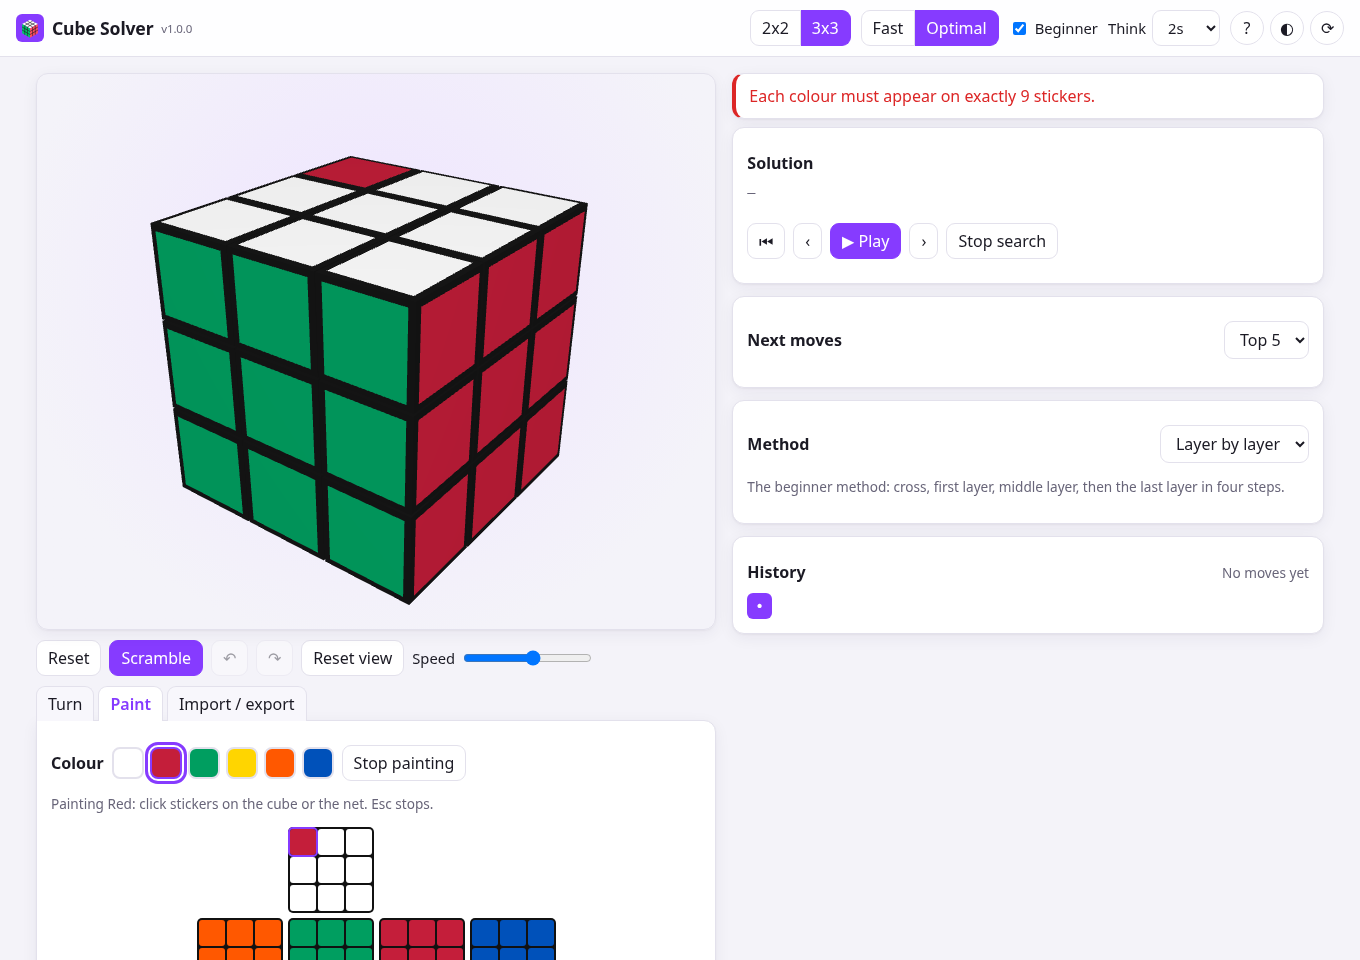
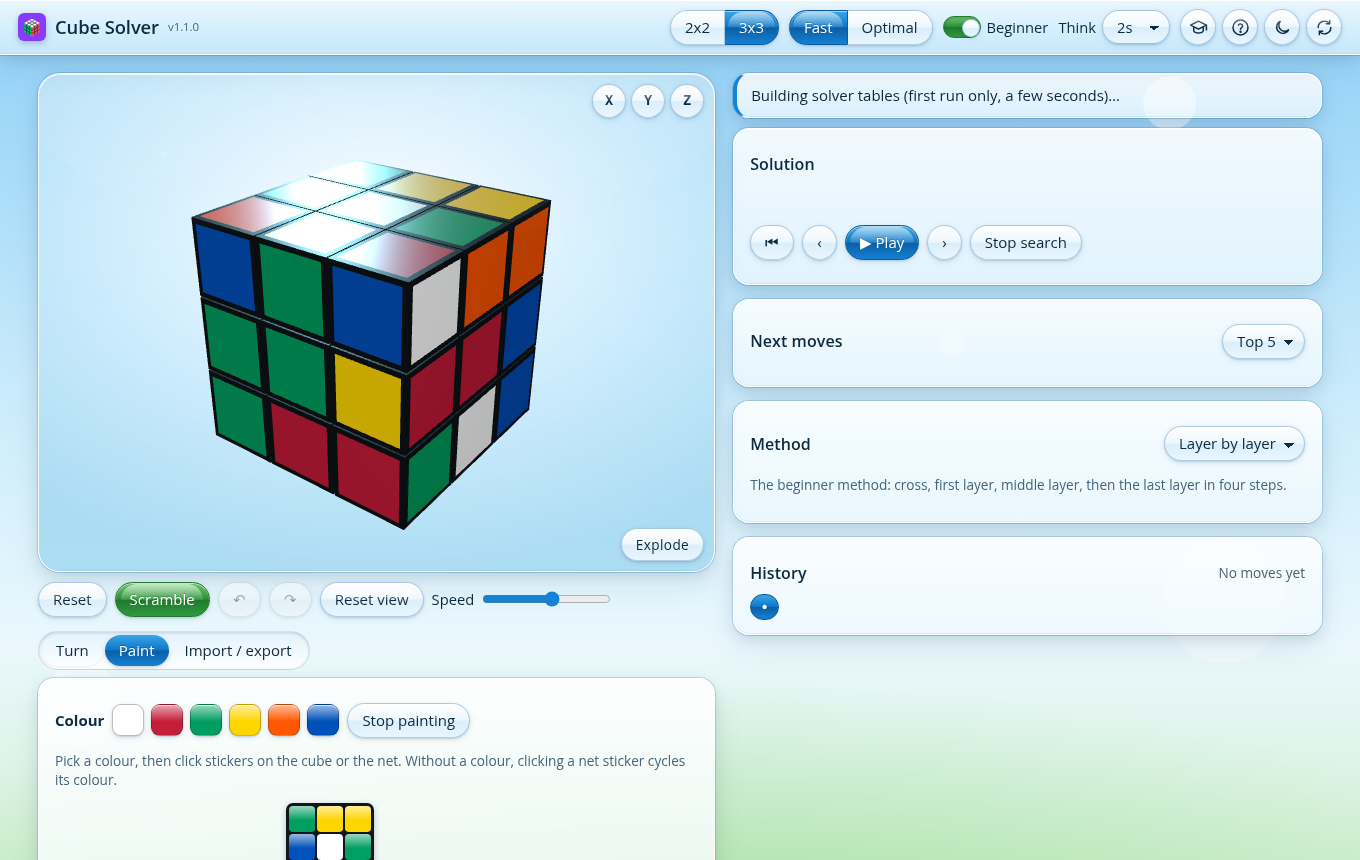
Document theming and refresh screenshots in the Aero look

diff --git a/README.md b/README.md
@@ -70,7 +70,8 @@
 **App**
 - Runs in the **browser**, installs as an offline **PWA**, and installs on **Windows** as a desktop app of about 2 MB (Tauri).
 - **Update check** against GitHub releases: automatic at startup in release builds, and on demand with ⟳.
-- Light/dark theme that follows the system until you choose. Settings are remembered.
+- **Frutiger Aero look:** glossy glass panels over a sky-and-bubbles backdrop, aqua pill buttons with a specular top half, a sky-blue and fresh-green palette, soft layered shadows, and lacquered stickers on the 3D cube. Light and dark (night-sky glass) variants follow the system until you pick one with the moon button.
+- Built on design tokens, so the planned neon and matte skins are just variable sets (preview with `?skin=neon` or `?skin=matte`). Respects reduced motion and reduced transparency (solid panels, no blur). Settings are remembered.
 - An interactive tutorial (below), a keyboard shortcut sheet, an error banner with Reload if anything goes wrong, and a solver that restarts itself if it crashes.
 - A responsive layout for phones and tablets. Every control has an accessible name, and keyboard focus is always visible.
 - The UI thread never runs solver work: everything heavy happens in a Web Worker, and solver tables are cached in IndexedDB.
@@ -196,6 +197,20 @@ The dots across the top jump to any lesson, and **Show again** repeats the demon
 
 The cube is modelled twice. The sticker model derives every move from 3D geometry, so it works for any size and the renderer uses the same coordinates. The cubie model uses Kociemba's conventions for the solvers. Tests apply every move in both models and check they agree.
 
+## Theming
+
+The look is built in two layers:
+
+| Layer | File | What it holds |
+|---|---|---|
+| Tokens | `src/theme/tokens.css` | Every surface, gradient, gloss, radius, shadow, blur, accent, text colour and texture, as CSS custom properties per skin (`:root[data-skin=…]`) with a dark variant |
+| Components | `src/style.css` | Panels, buttons, tabs, toggles, dialogs, tour and coach cards. These read tokens only (a test fails if they use an undeclared one) |
+| Scene | `src/theme/skins.ts` | The 3D side of each skin: plastic colour and roughness, sticker clear-coat gloss, and ambient, key, sky and rim lights for light and dark |
+
+The skins are **aero** (shipped and default), **neon** (futuristic dark) and **matte** (textured). The last two are complete variable sets that aren't offered in the UI yet. You can preview them with `?skin=neon` or `?skin=matte`, or by saving `cube-solver-skin` in `localStorage`. The dark variant is chosen through `data-theme`, which follows the OS until you pick one. Under reduced transparency, panels become solid and blur is turned off. Contrast is checked in tests to meet WCAG AA for body text, muted text and text on buttons.
+
+<p align="center"><img src="docs/screenshot-dark.png" width="700" alt="The Aero look in dark mode: night-sky glass panels" /></p>
+
 ## Building and packaging
 
 ### Web
@@ -271,6 +286,9 @@ src/
     explode.ts      exploded-view maths: easing, offsets, stagger, controller (pure, tested)
     framing.ts      camera distance that fits the cube for any FOV/aspect (pure, tested)
     net.ts          flat net editor
+  theme/
+    tokens.css      design tokens per skin (aero light/dark, neon, matte)
+    skins.ts        scene parameters per skin, skin and theme selection (tested with the tokens)
   tutorial/
     lessons.ts      lesson, quiz and tour content; attempt checking; saved progress (pure, tested)
     tutorial.ts     coach panel, demonstrations, quiz; starts the tour

diff --git a/lessons.md b/lessons.md
@@ -60,3 +60,11 @@ Rules learned building Cube Solver. Read them before changing the build, the sol
 - The turn animation re-parents meshes and snaps them back to their home matrix. Running it while pieces are exploded would fling them home mid-air. Gate turns at the entry points, and also make `animate()` just recolour when the cube is exploded, as a safety net.
 - Make the explode controller reversible: start the new animation from the current eased amount and scale its duration by the distance left. Rapid toggling then never jumps.
 - For a "glow" without a post-processing pass, use additive blending on thin lines and points, on a darkened viewport background. It's cheap and reads as sci-fi.
+
+## Visual design system
+
+- A list-valued `background-size` cycles across *every* layer. Putting a tiled texture first and a stack of radial "bubble" gradients after it tiled half the bubbles into a wallpaper. Give each tiled layer its own pseudo-element.
+- Glossy aqua buttons need darker gradient midpoints than they look like they should. The white label sits over the middle band, so check contrast against that colour, not the light top.
+- Clear-coat stickers plus a sky hemisphere light washed out the top face. Lacquer works with a weak sky light, lower ambient and a slightly rough clear coat.
+- Floating cards over busy content (coach, welcome, tour) need near-opaque glass. Real translucency only works over calm backgrounds.
+- A test that every skin defines every token, and that components only use declared tokens, keeps "skins only swap variables" true as the CSS grows.
